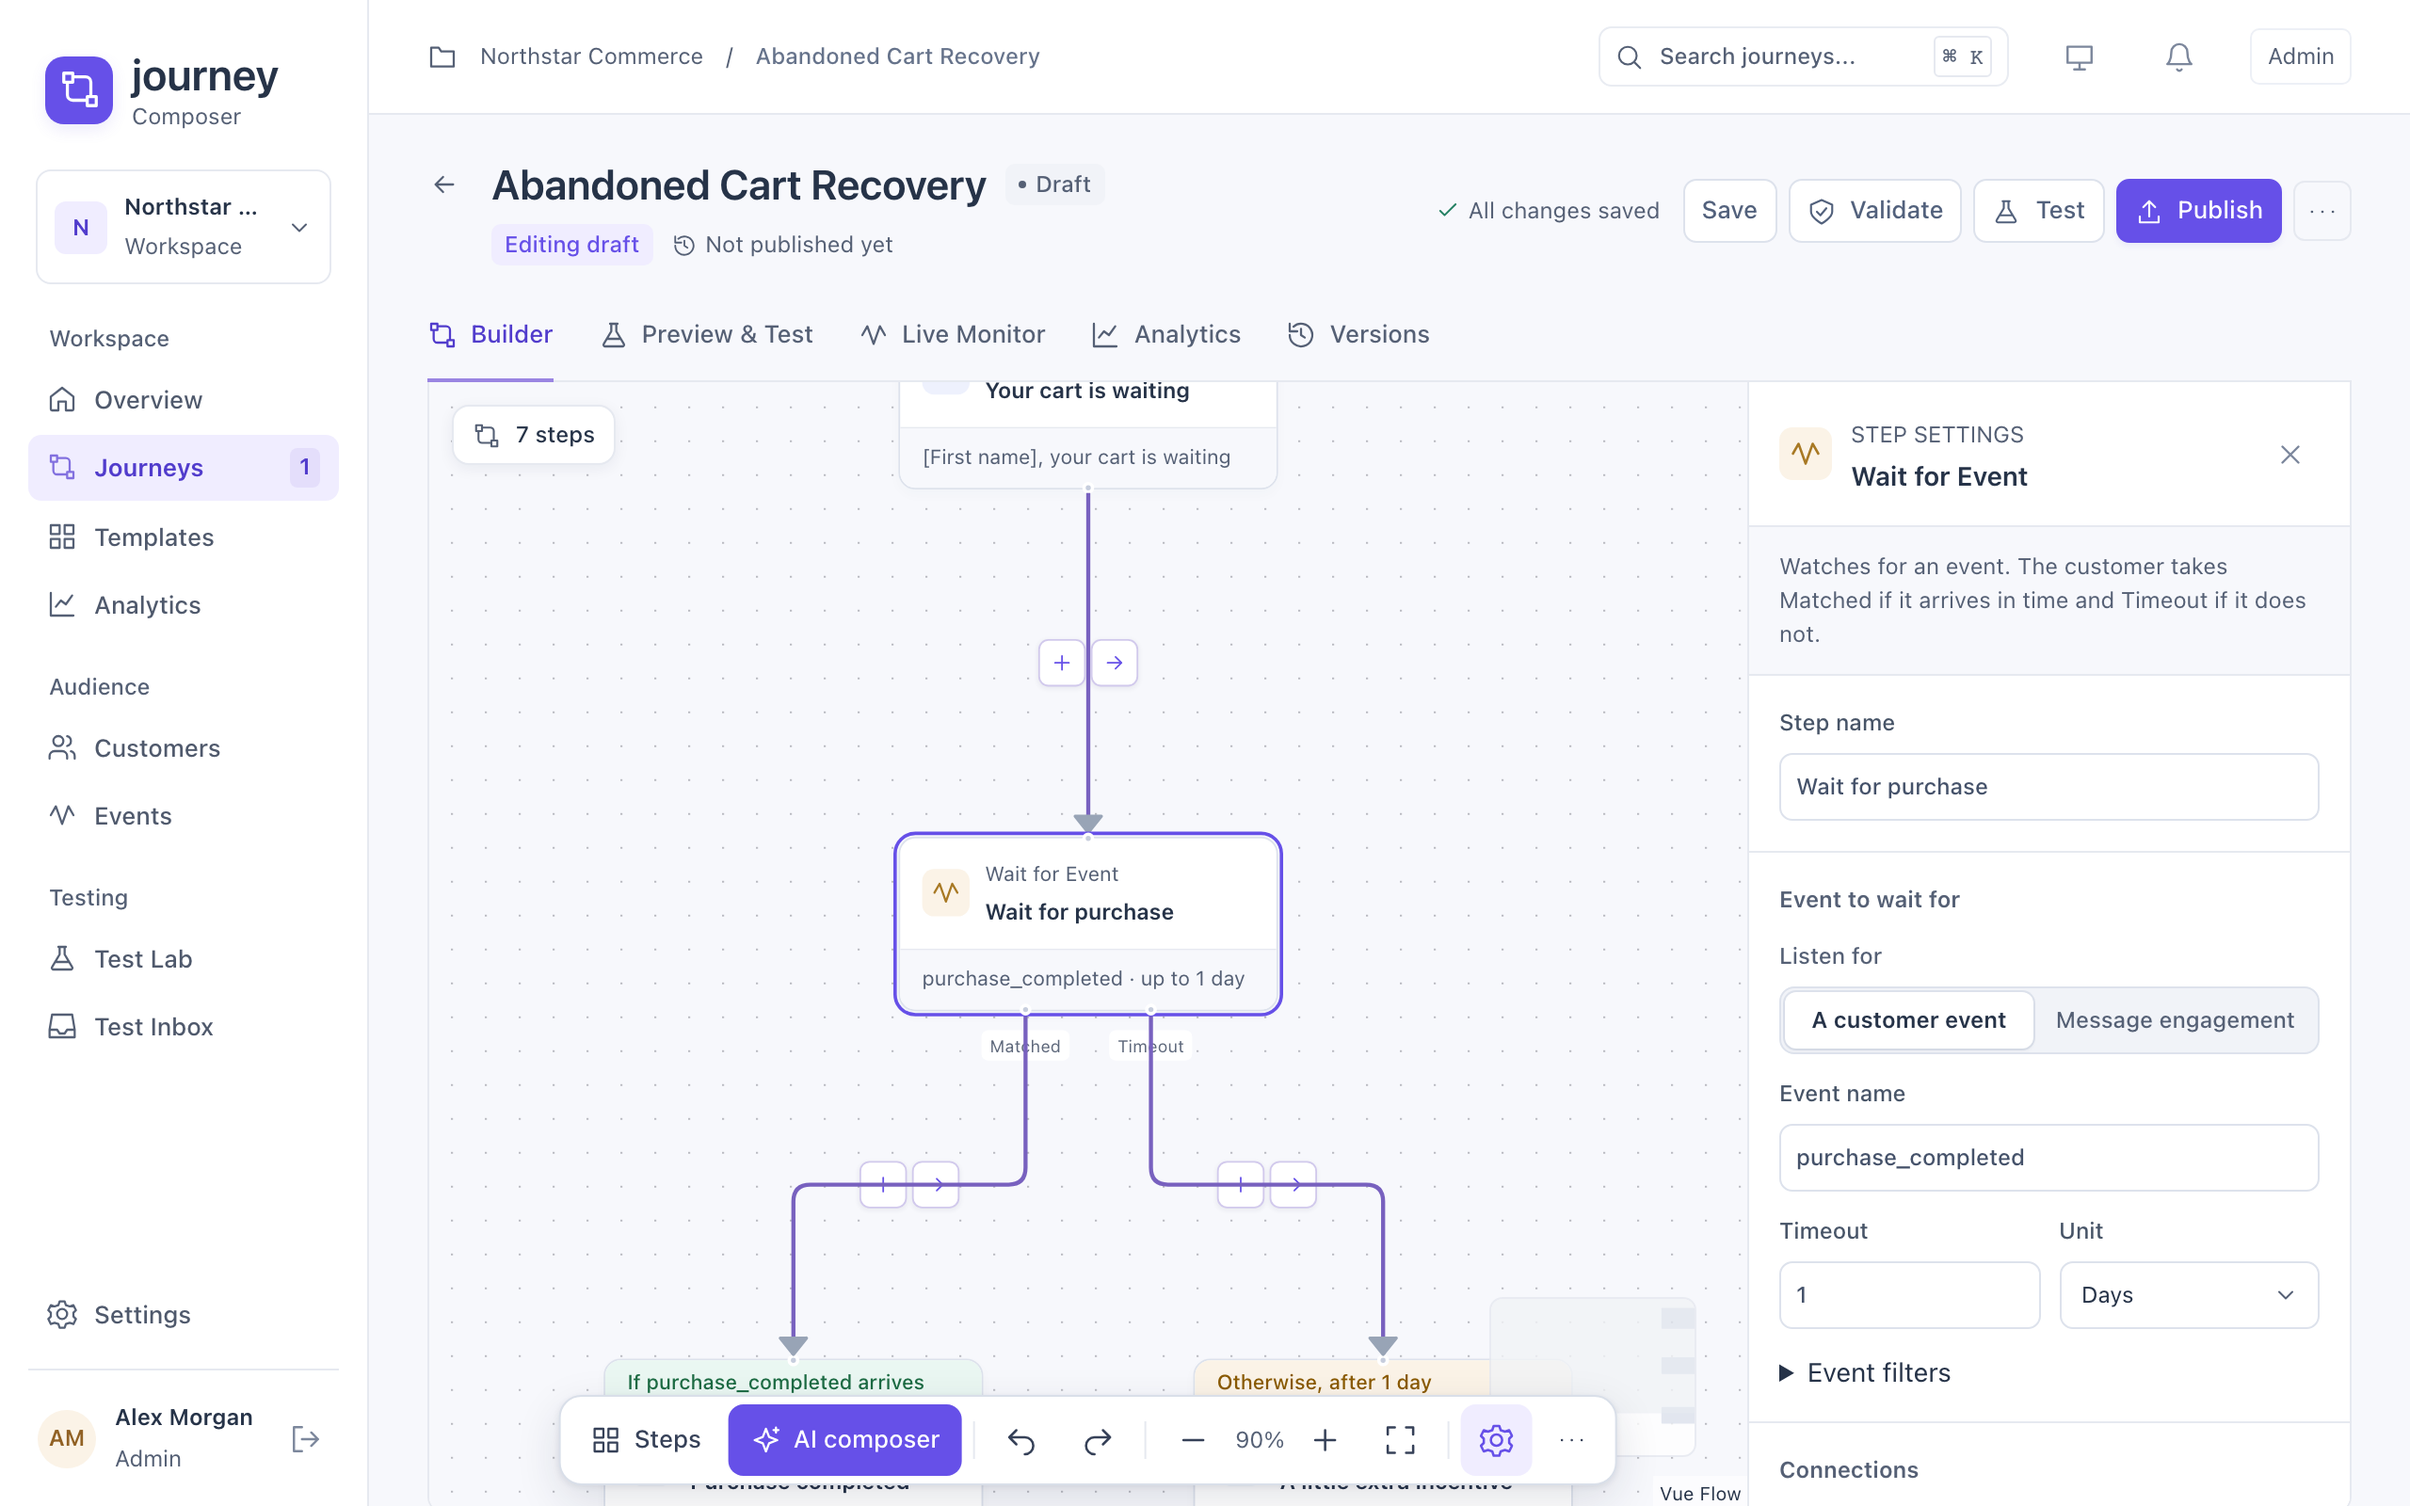
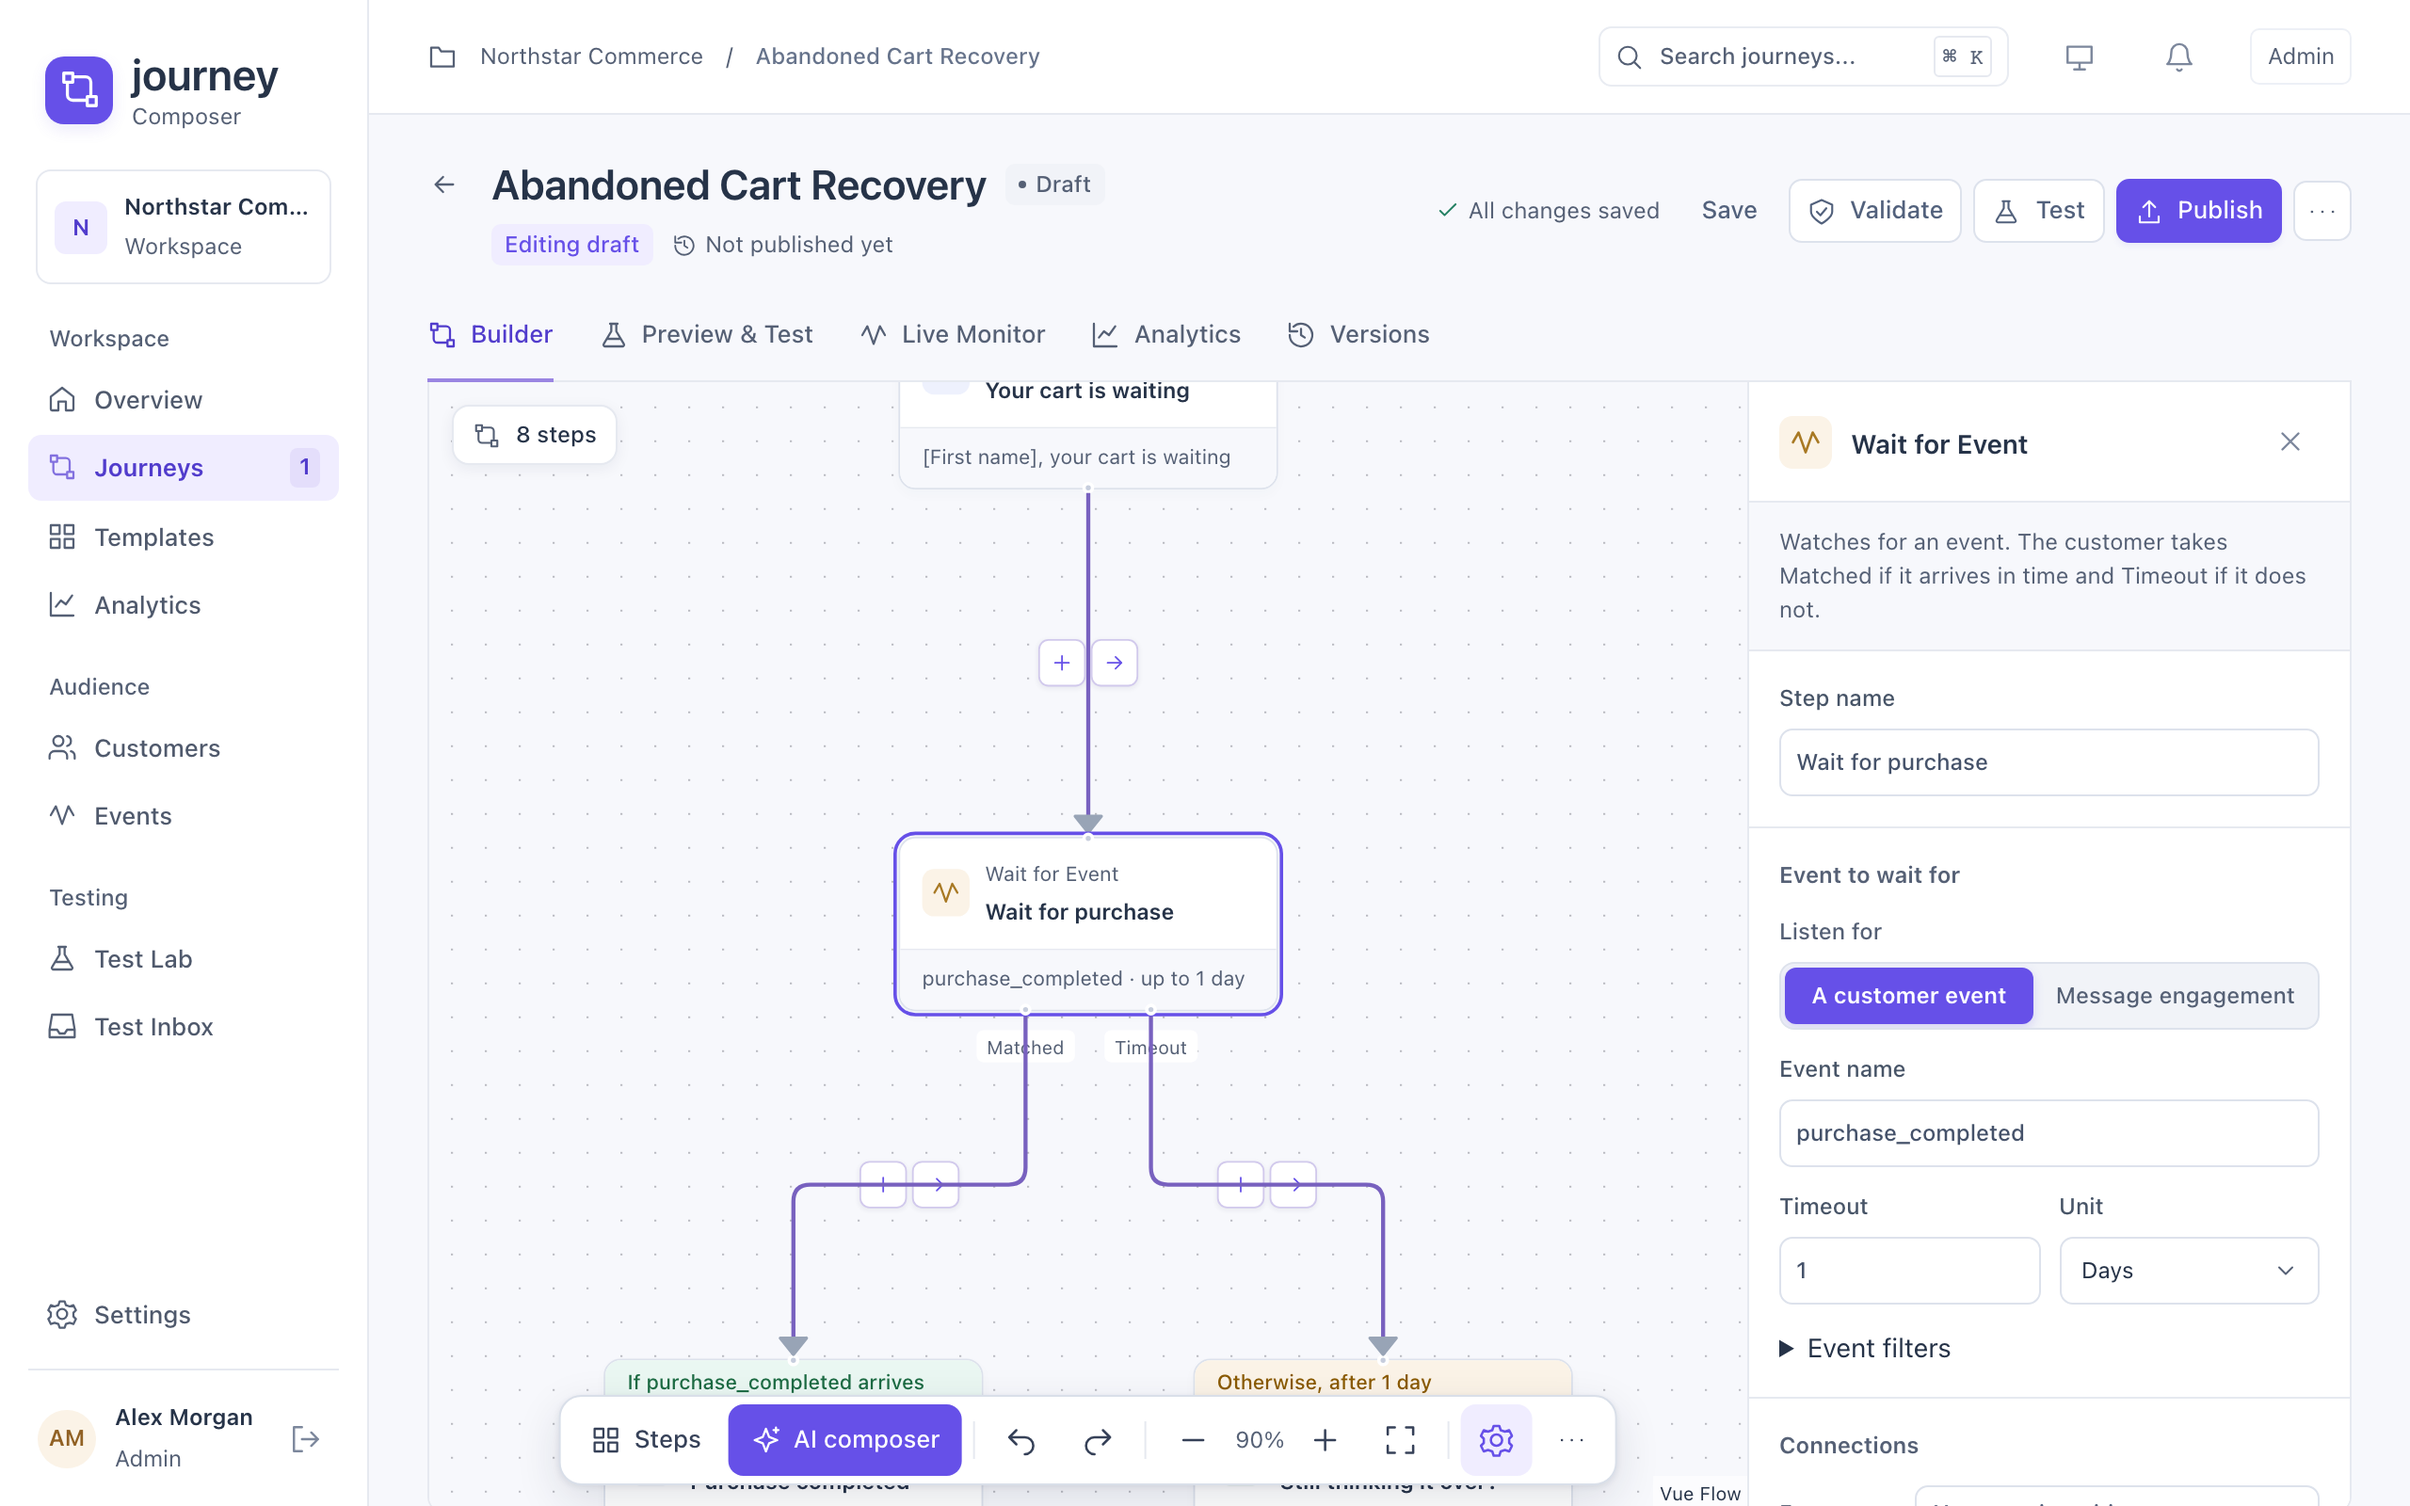
docs: recapture creation screenshots with push expectations
The showcase contract now expects one push notification on the no-purchase path
and none when the purchase comes first. The replayed brief and explanation
mention the push reminder and use composer.v7.

diff --git a/README.md b/README.md
@@ -4,7 +4,7 @@
 
 Turns a plain-language brief into a customer journey on a visual canvas: an entry event, waits, conditions, branches, email, SMS and push steps, and a goal that ends the journey. Claude or OpenAI proposes the journey, a person reviews and applies it, and a Go runtime on PostgreSQL executes the published version step by step for each customer. A Test Lab runs days of a journey in seconds on a virtual clock, and the live monitor follows every customer through it.
 
-The AI only proposes. It cannot save, publish or send anything: a person applies its draft, a person publishes it, and the runtime then runs that fixed version without a model. Email goes to a local Mailpit inbox and SMS to a mock provider, so nothing leaves your machine.
+The AI only proposes. It cannot save, publish or send anything: a person applies its draft, a person publishes it, and the runtime then runs that fixed version without a model. Email goes to a local Mailpit inbox, and push and SMS to mock providers, so nothing leaves your machine.
 
 To run it yourself, follow [Install from scratch](#install-from-scratch). It needs Docker and Node.js, and no API key.
 
@@ -36,9 +36,9 @@ Choose **New journey → Create with AI** and write what should happen in everyd
 
 ![Brief page: the abandoned-cart brief, the workspace events and fields it can use, and example journeys](docs/images/creation/brief.png)
 
-Before the model is called, you confirm what the journey must do in each situation: how many emails and SMS, and how it ends. These expectations are checked against every proposal.
+Before the model is called, you confirm what the journey must do in each situation: how many emails, SMS and push notifications, and how it ends. These expectations are checked against every proposal.
 
-![Behavior contract: the situation No purchase during recovery, for EUR carts of at least 50 with email and SMS consent](docs/images/creation/contract.png)
+![Behavior contract: the situation No purchase during recovery, for EUR carts of at least 50 with email, SMS and push consent](docs/images/creation/contract.png)
 
 ### 2. Review the proposal
 
@@ -50,7 +50,7 @@ The proposal is drawn as a diagram, with each alternative path. Request a change
 
 ### 3. Edit it on the canvas
 
-Every step is editable: triggers, waits for a time or an event, conditions, multi-way branches, A/B splits, email, SMS, webhooks, profile updates and exits. Changes save automatically and can be undone.
+Every step is editable: triggers, waits for a time or an event, conditions, multi-way branches, A/B splits, email, SMS, push, webhooks, profile updates and exits. Changes save automatically and can be undone.
 
 ![Builder: the journey on the canvas with the purchase wait selected, its push follow-up on the timeout path, and the wait's event, timeout and connections in the side panel](docs/images/journey-builder.png)
 

diff --git a/docs/IMPLEMENTATION.md b/docs/IMPLEMENTATION.md
@@ -1294,3 +1294,13 @@ segmented trend period control, expects three Test Inbox messages and adds
 `test-inbox-push.png`. The customer profile now shows a push consent chip next to
 email and SMS. Live entries stayed the same before and after capture. The creation
 gallery was not recaptured.
+
+### Creation screenshots with push — 2026-11-17
+
+`npm run screenshots:creation` recaptured the eight creation views with local SSE
+replay (no provider call, no publication, a fresh isolated account). The showcase
+contract now expects one push notification on the no-purchase path and none when
+the purchase comes first, so the contract editor shows push consent and the review
+lists push counts. The brief and replayed explanation mention the push reminder,
+and the replay uses `composer.v7`. Recapturing exposed a missing space before the
+push count in the behavior summary ("SMS ·1 push"); it is fixed.

diff --git a/docs/images/creation/README.md b/docs/images/creation/README.md
@@ -1,6 +1,6 @@
 # Journey creation gallery
 
-Refreshed November 16, 2026 from the running application at 1280 × 800 CSS pixels,
+Refreshed November 17, 2026 from the running application at 1280 × 800 CSS pixels,
 2× display scale (**2560 × 1600 PNGs**). Fictional isolated workspace.
 
 These captures replay a recorded generation stream locally: the proposal is the
